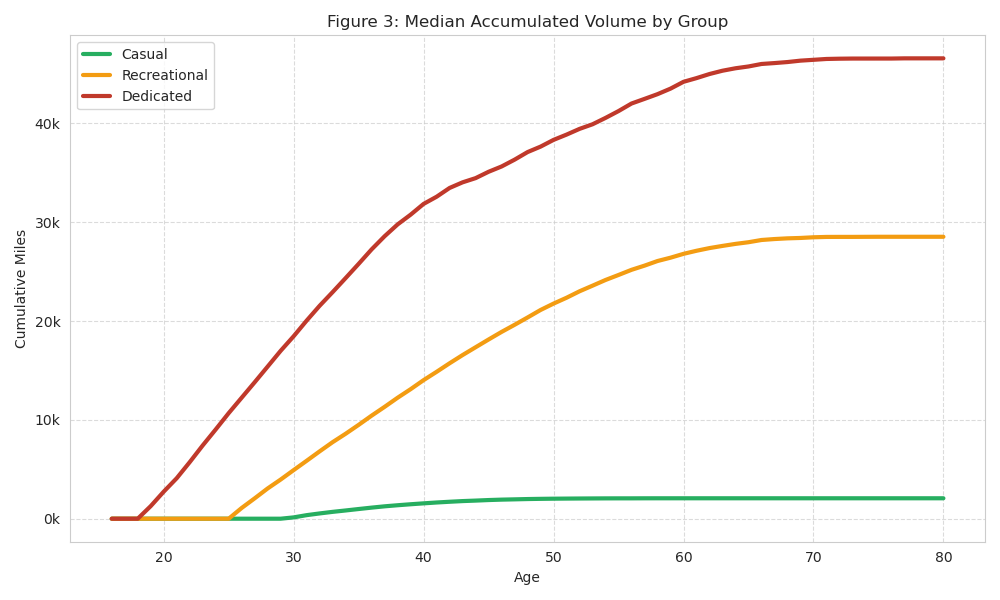
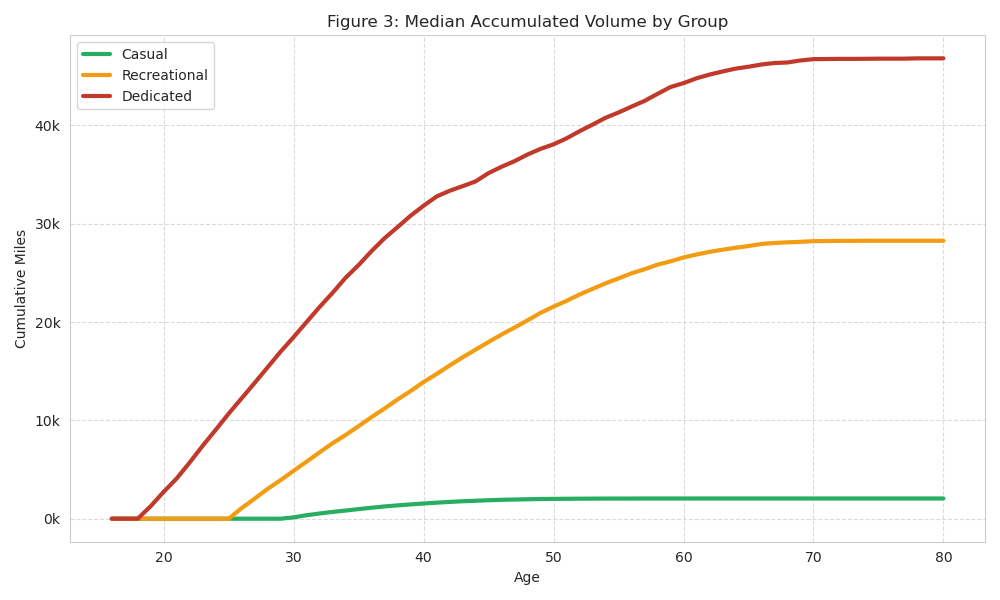
Update model visualization, docs, and add consistency plot

diff --git a/index.html b/index.html
@@ -249,7 +249,7 @@
         <h2>1. Conceptual Framework: Latent Sub-Populations</h2>
 
         <p>A single "average" lifetime mileage figure is statistically meaningless due to the heavy skew of the
-            population. Instead, this model defines three latent groups ("components") that comprise the total
+            population. Instead, this model defines four latent groups ("components") that comprise the total
             population:</p>
 
         <ul>
@@ -257,14 +257,18 @@
                 running volume. Modeled as a structural zero ($\delta(0)$).</li>
 
             <li><strong>Casual Runners ($\pi_C \approx 25\%$):</strong> Seasonal or intermittent participants. Their
-                volume typically centers around <strong>500-600 miles/year</strong> (~11 mpw), often plateauing or
+                volume typically centers around <strong>~300-500 miles/year</strong> (~6-10 mpw), often plateauing or
                 declining after early adulthood.</li>
 
+            <li><strong>Recreational Runners ($\pi_R \approx 10\%$):</strong> Consistent hobbyists. This group averages
+                <strong>~800-900 miles/year</strong> (~15-18 mpw), representing the "weekend warrior" or regular social
+                runner.
+            </li>
+
             <li><strong>Dedicated Runners ($\pi_D \approx 5\%$):</strong> The committed minority for whom running is a
-                primary lifestyle habit. This group averages <strong>~1,800 miles/year</strong> usage (~35 mpw) and
+                primary lifestyle habit. This group averages <strong>~1,800 miles/year</strong> (~35 mpw) and
                 maintains consistency over decades, driving the upper tail of the distribution.</li>
         </ul>
-        <p><em>Note: A "Recreational" transition group (~10%) exists between the Casual and Dedicated tiers.</em></p>
 
         <h2>2. The Mathematical Model</h2>
 
@@ -312,15 +316,18 @@
             <strong>Observation Map:</strong>
             <ul style="list-style-type: none; padding-left: 0;">
                 <li><strong>1. Casual (Mixed):</strong> $\mu_{casual} + 0.5\beta_{gender} \sim \mathcal{N}(\ln(312))$
-                    <br> <small><em>Source: Strava Gen Z Median (6 mpw)</em></small></li>
+                    <br> <small><em>Source: Strava Gen Z Median (6 mpw)</em></small>
+                </li>
                 <li><strong>2. Casual (Mixed):</strong> $\mu_{casual} + 0.5\beta_{gender} \sim \mathcal{N}(\ln(468))$
-                    <br> <small><em>Source: Strava Boomer Median (9 mpw)</em></small></li>
+                    <br> <small><em>Source: Strava Boomer Median (9 mpw)</em></small>
+                </li>
                 <li><strong>3. Recreational (Female):</strong> $\mu_{rec} \quad \quad \quad \quad \quad \sim
                     \mathcal{N}(\ln(874))$ <br> <small><em>Source: RunRepeat Female Avg (16.8 mpw)</em></small></li>
                 <li><strong>4. Dedicated (Male):</strong> $\mu_{ded} + \beta_{gender} \quad \;\; \sim
                     \mathcal{N}(\ln(1924))$ <br> <small><em>Source: Male Marathoner Avg (37 mpw)</em></small></li>
                 <li><strong>5. Dedicated (Mixed):</strong> $\mu_{ded} + 0.5\beta_{gender} \sim \mathcal{N}(\ln(1820))$
-                    <br> <small><em>Source: Running USA Core Avg (35 mpw)</em></small></li>
+                    <br> <small><em>Source: Running USA Core Avg (35 mpw)</em></small>
+                </li>
             </ul>
         </div>
 
@@ -329,7 +336,8 @@
 
                 <h2>3. The Accumulation function $\mu(t)$</h2>
                 <p>Lifetime mileage is not a static number; it is a time-series accumulation. To simulate this, we use a
-                    <strong>Piecewise Accumulation Function</strong>.</p>
+                    <strong>Piecewise Accumulation Function</strong>.
+                </p>
 
                 <p>For a simulated individual $i$, the total mileage at age $t$ is the sum of annual volumes
                     $V_i(\tau)$:</p>
@@ -385,15 +393,28 @@
                 <h3>3. Median Trajectories</h3>
                 <figure>
                     <img src="output_file_medians_final.png" alt="Median Lifetime Miles by Age for Each Group">
-                    <figcaption>Figure 3: The Long-Term Accumulation. This plot reveals how the tribes diverge over
-                        time.
+                    <figcaption>Figure 3: Median Accumulated Volume by Group. This plot reveals how the tribes diverge
+                        over time.
                         Casual runners (Green) plateau early as they age out of the sport or maintain very low volume.
                         Dedicated runners (Red) maintain a linear trajectory, stacking consistent decades of volume.
                         The Recreational group (Yellow) sits in the middle, representing the committed hobbyist.
                     </figcaption>
                 </figure>
 
+                <h3>4. Consistency of Habit</h3>
+                <figure>
+                    <img src="output_file_consistency.png"
+                        alt="Distribution of Consistency Ratios (Active Years / Career Duration)">
+                    <figcaption>Figure 4: Intermittency vs Consistency. The Casual distribution (Green) is broad,
+                        showing that
+                        many casual runners have significant "gap years". The Dedicated distribution (Red) is clustered
+                        tightly
+                        at 1.0 (100% active years), illustrating that consistency is the defining trait of the group.
+                    </figcaption>
+                </figure>
+
                 <p><strong>Key Insight:</strong> The difference between limits is not pace, but persistence. A Dedicated
+                    runner
                     runner
                     averaging 10-minute miles will eventually build a statistical tower of volume that dwarfs a faster
                     runner
@@ -409,6 +430,8 @@
                     <h3>1. Lifetime Estimator</h3>
                     <div class="calculator">
                         <h3>Estimator: How many miles have you run?</h3>
+                        <p style="font-size: 0.9rem; color: #64748b; margin-bottom: 1.5rem;">Sum your active years
+                            below. Any years not accounted for are treated as "Non-Runner" years (0 miles).</p>
                         <div class="input-group">
                             <label>Gender Shift:</label>
                             <select id="estGender"
@@ -437,7 +460,9 @@
 
                 <div class="widget-section">
                     <h3>2. Global Percentile Rank</h3>
-                    <p>Compare your lifetime total against the global population for your age group.</p>
+                    <p>Compare your lifetime total against the entire global population for your age group,
+                        <strong>including the ~60% of people who are non-runners</strong>.
+                    </p>
 
                     <div class="widget-grid">
                         <div>

diff --git a/lifetime_model.py b/lifetime_model.py
@@ -407,3 +407,46 @@ plt.tight_layout()
 plt.savefig('output_file_medians_final.png')
 
 print("Done. Saved outputs.")
+
+# --- Consistency / Intermittency Plot ---
+print("Generating Consistency Plot...")
+plt.figure(figsize=(10, 6))
+
+def get_consistency_ratios(indices, starts, stops):
+    ratios = []
+    for i, idx in enumerate(indices):
+        start_age = int(max(16, starts[i]))
+        stop_age = int(min(80, stops[i]))
+        duration = stop_age - start_age
+        
+        if duration < 1:
+            continue
+            
+        # Count active years in this window
+        # annual_miles is (N_SIM, 81)
+        # We need the specific row for this user: annual_miles[idx]
+        user_miles = annual_miles[idx, start_age:stop_age+1]
+        active_years = np.sum(user_miles > 0)
+        
+        ratio = active_years / (duration + 1) # +1 for inclusive
+        ratios.append(ratio)
+    return np.array(ratios)
+
+ratios_c = get_consistency_ratios(idx_c, starts_c, stops_c)
+ratios_r = get_consistency_ratios(idx_r, starts_r, stops_r)
+ratios_d = get_consistency_ratios(idx_d, starts_d, stops_d)
+
+sns.kdeplot(ratios_c, color='#2ecc71', fill=True, label='Casual (Simulated)', clip=(0,1))
+sns.kdeplot(ratios_r, color='#f1c40f', fill=True, label='Recreational (Simulated)', clip=(0,1))
+sns.kdeplot(ratios_d, color='#e74c3c', fill=True, label='Dedicated (Simulated)', clip=(0,1))
+
+plt.xlabel("Consistency Ratio (Active Years / Career Duration)")
+plt.ylabel("Density")
+plt.title("Figure 4: Consistency of Habit by Group")
+plt.xlim(0, 1)
+plt.legend(loc='upper left')
+plt.grid(True, linestyle='--', alpha=0.5)
+
+plt.tight_layout()
+plt.savefig('output_file_consistency.png')
+print("Saved output_file_consistency.png")

diff --git a/.agent/rules.md b/.agent/rules.md
@@ -1,0 +1,15 @@
+# Project Rules
+
+## 1. Environment Policy
+**CRITICAL:** You must ALWAYS use the `the_long_run` conda environment when running Python scripts or installing packages.
+- **Do not** use the base environment.
+- **Do not** use `pip` without ensuring the conda environment is active.
+- **Command:** `conda run -n the_long_run python <script>` or `conda activate the_long_run` before running commands.
+
+## 2. Synchronization Policy
+The project consists of three tightly coupled components. You must ensure they remain synchronized:
+1.  **Python Model (`lifetime_model.py`)**: The Source of Truth for all statistical parameters, priors, and simulation logic.
+2.  **Frontend (`index.html`)**: Contains hardcoded JS versions of the model parameters for the calculators. **If you change the model parameters in Python, you MUST update the constants in `index.html` (e.g., `WEIGHTS`, `BETA_GENDER`, Means/Stds).**
+3.  **Documentation (`README.md` / `index.html` text)**: The explanatory text must accurately reflect the mathematical model implemented in the code.
+
+**Rule:** When modifying the model, always perform a sweep to update the HTML calculators and text descriptions to match.
